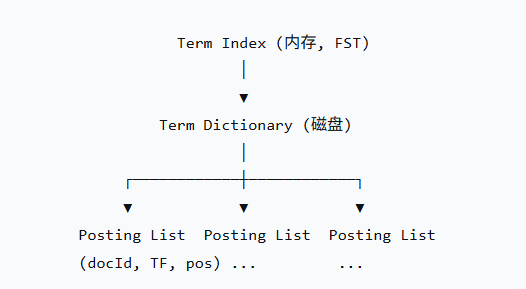
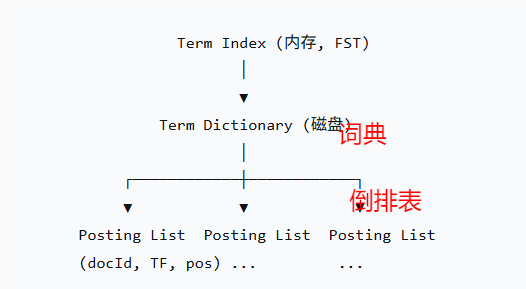
es知识点补充

Changed region(s): [[0.6692, 0.654, 0.8213, 0.7474], [0.6388, 0.4048, 0.73, 0.4983]]

diff --git a/notes/database/ElasticSearch.md b/notes/database/ElasticSearch.md
@@ -51,6 +51,23 @@ elasticsearch底层是基于**lucene**来实现的。
 
 - 2010年Shay Banon 重写了Compass，取名为Elasticsearch。
 
+### 5）elasticsearch VS solr
+
+| 维度              | Elasticsearch        | Solr                           |
+| :---------------- | :------------------- | :----------------------------- |
+| **设计理念**      | 分布式、实时、云原生 | 功能丰富、配置驱动、传统企业级 |
+| **架构模式**      | 天生分布式，内置协调 | SolrCloud + ZooKeeper          |
+| **数据格式**      | 仅 JSON              | JSON、XML、CSV 等              |
+| **查询接口**      | RESTful JSON DSL     | HTTP + XML/JSON 参数           |
+| **实时性**        | 近实时（~1秒延迟）   | 写入时可能阻塞查询             |
+| **日志/时序数据** | ✅ 天生适合（ELK 栈） | ❌ 不够优化                     |
+| **文本分析**      | 强                   | 更强（40+ 语言、更细粒度控制） |
+
+- Elasticsearch 和 Solr 都是基于 Lucene 的搜索引擎，但设计哲学不同。
+- **Elasticsearch 是分布式优先**：天生为云原生、海量数据、实时场景设计。它内置节点发现和协调，不需要 ZooKeeper，API 是 RESTful JSON，对开发者友好。特别适合日志分析（ELK 栈）、实时搜索、应用内搜索。
+- **Solr 是功能优先**：作为传统企业级搜索引擎，它功能更丰富——分面搜索更强、文本分析更细粒度、支持多种数据格式。但代价是依赖 ZooKeeper、配置复杂、实时写入性能较差。
+- **选型建议**：新项目、日志场景、实时性要求高 → 选 ES；已有 Java 生态、需要精细搜索功能、结构化数据为主 → 选 Solr。两者在电商搜索领域有重叠，但整体趋势是 ES 正在成为主流选择。
+
 ## 2、倒排索引
 
 倒排索引的概念是基于MySQL这样的正向索引而言的。
@@ -189,6 +206,20 @@ elasticsearch底层是基于**lucene**来实现的。
 **2. 查询流程（搜索阶段）**
 
 `查询词 → 分词 → 在 Term Index 中定位 → 在 Term Dictionary 中查找 → 读取 Posting List → 合并结果 → 返回文档`
+
+#### 1.3 原理
+
+倒排索引是 ES 全文搜索的核心，本质是'词到文档'的映射。它采用三层结构：
+
+**Term Index** 在内存中，使用 FST 结构，通过共享前缀压缩，快速定位词项在磁盘上的位置，类似字典的字母索引。
+
+**Term Dictionary** 在磁盘上，是所有词项的有序列表，每个词项指向对应的 Posting List，类似字典的正文。
+
+**Posting List** 在磁盘上，存储文档ID列表、词频、位置信息，用于相关性计算和短语查询，并采用 FOR、Roaring Bitmap 等压缩技术节省空间。
+
+查询时，先在内存的 Term Index 中定位，然后读取磁盘上的 Term Dictionary 获取指针，再读取 Posting List 拿到文档ID列表，最后合并结果并计算相关性得分。
+
+这种设计用极小的内存成本（Term Index）换取了极高的查询性能，是 ES 能在海量数据下实现毫秒级全文检索的根本原因。
 
 ## 3、常见概念
 
@@ -1058,6 +1089,11 @@ Elasticsearch提供了基于JSON的DSL（[Domain Specific Language](https://www.
   
     - term
   
+- 通配符查询：查询用于执行通配符模式匹配，`\*` 匹配任意字符序列（包括空），`?` 匹配单个字符。
+
+
+  - wildcard
+
 
 
 - 地理（geo）查询：根据经纬度查询。例如：
@@ -1263,7 +1299,41 @@ GET /indexName/_search
 
 - range查询：根据数值范围查询，可以是数值、日期的范围
 
-## 4、地理坐标查询
+## 4、通配符查询
+
+| 通配符   | 含义                    | 示例     | 匹配结果                     |
+| :------- | :---------------------- | :------- | :--------------------------- |
+| `*`      | 匹配 0 个或多个任意字符 | `"te*t"` | `"test"`, `"text"`, `"tent"` |
+| `?`      | 匹配 1 个任意字符       | `"te?t"` | `"test"`, `"text"`, `"tent"` |
+| 组合使用 | 混合使用                | `"t?*t"` | 至少 2 个字符，首尾是 `t`    |
+
+基本语法：
+
+```json
+GET /indexName/_search
+{
+  "query": {
+    "wildcard": {
+      "name": "XXX*"
+    }
+  }
+}
+```
+
+`wildcard` 查询**大小写敏感**，与字段原始存储值一致。
+
+> 通配符查询无法利用倒排索引，需要遍历 Term Dictionary 中的所有词项进行匹配。特别是前缀通配符（如 `*abc`），需要扫描整个字典。
+>
+> 如果必须使用通配符查询，有几个优化建议：
+>
+> 1. 尽量使用后缀通配符（`abc*`），可以利用前缀索引
+> 2. 使用 ES 8.x 引入的 `wildcard` 字段类型，它针对通配符查询做了专门优化
+> 3. 考虑用 n-gram 分词器 + `match` 查询替代
+> 4. 设置查询超时，避免慢查询拖垮集群
+>
+> 实际生产中，我会优先推荐用户使用 `match` 全文搜索或 `prefix` 前缀查询，只有在确实需要灵活通配符匹配时才用 `wildcard`，并且会限制其使用范围和数据量。
+
+## 5、地理坐标查询
 
 所谓的地理坐标查询，其实就是根据经纬度查询，官方文档：https://www.elastic.co/guide/en/elasticsearch/reference/current/geo-queries.html
 
@@ -1355,7 +1425,7 @@ GET /indexName/_search
 
 可以发现，搜索到的酒店数量减少到了5家。
 
-## 5、复合查询
+## 6、复合查询
 
 复合（compound）查询：复合查询可以将其它简单查询组合起来，实现更复杂的搜索逻辑。常见的有两种：
 
@@ -2487,7 +2557,7 @@ PUT /test
       "filter": { // 自定义tokenizer filter
         "py": { // 过滤器名称
           "type": "pinyin", // 过滤器类型，这里是pinyin
-		  	 "keep_full_pinyin": false,
+		  "keep_full_pinyin": false,
           "keep_joined_full_pinyin": true,
           "keep_original": true,
           "limit_first_letter_length": 16,